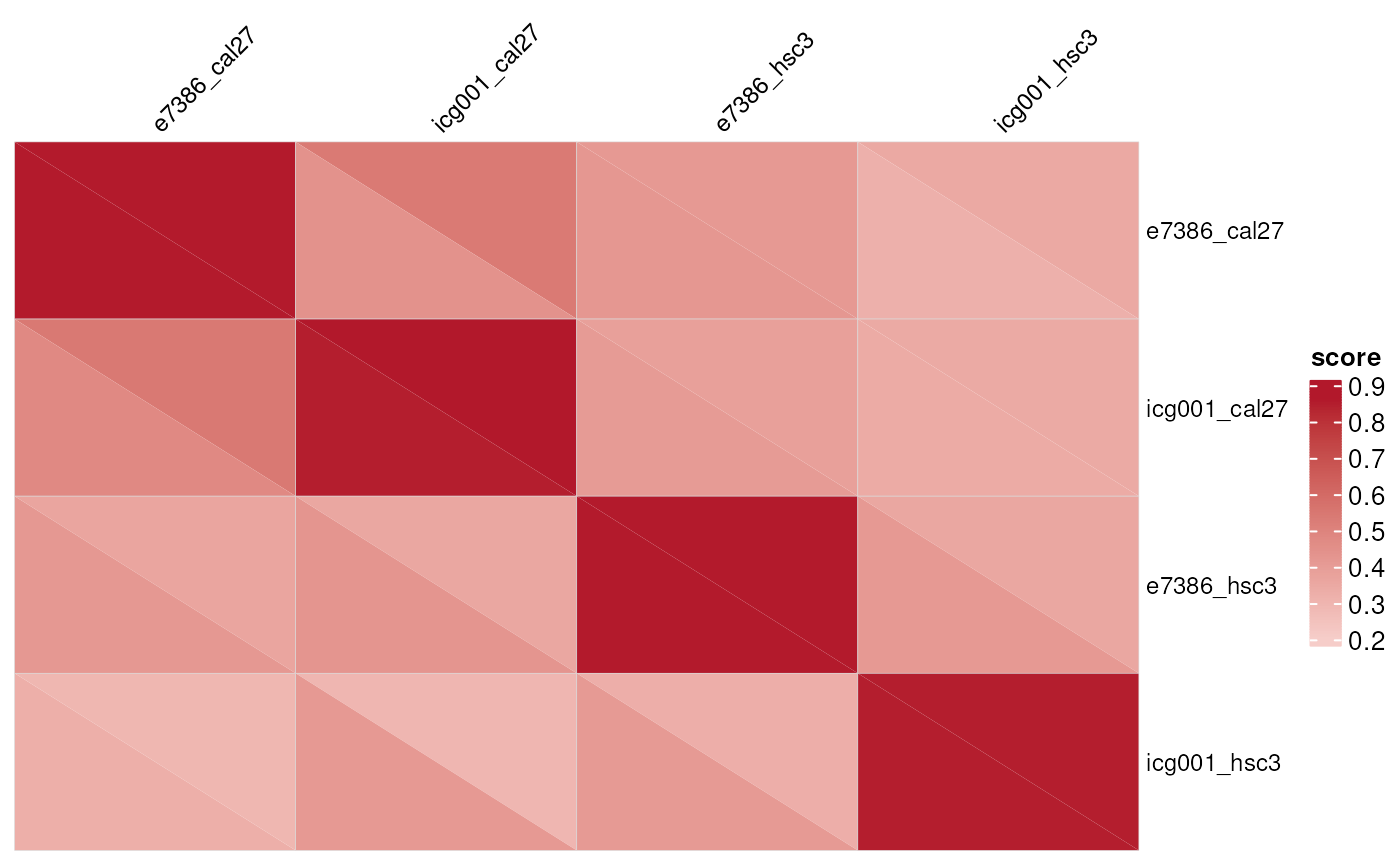
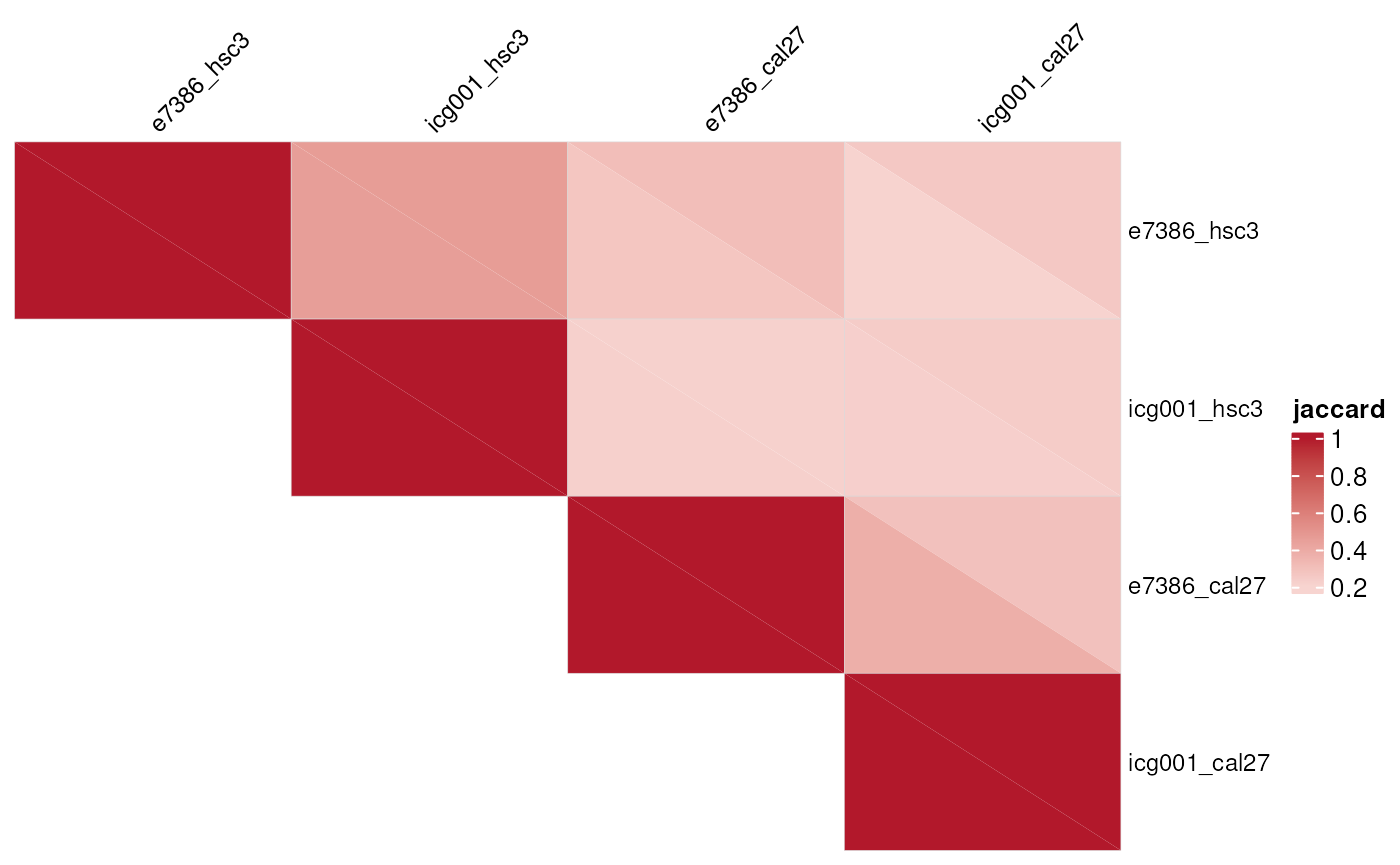
Deploying to gh-pages from @ montilab/OmicSignature@a5655fe8e4b9d870a0cdf44f5140b43c7aa1e4e0 🚀

diff --git a/articles/CompareSignatures.html b/articles/CompareSignatures.html
@@ -73,7 +73,7 @@
       <h1>Comparing OmicSignature Lists</h1>
             
       
-      <small class="dont-index">Source: <a href="https://github.com/montilab/OmicSignature/blob/main/vignettes/CompareSignatures.Rmd" class="external-link"><code>vignettes/CompareSignatures.Rmd</code></a></small>
+      <small class="dont-index">Source: <a href="https://github.com/montilab/OmicSignature/blob/docs/dropdown-height-and-counts-matrix/vignettes/CompareSignatures.Rmd" class="external-link"><code>vignettes/CompareSignatures.Rmd</code></a></small>
       <div class="d-none name"><code>CompareSignatures.Rmd</code></div>
     </div>
 
@@ -114,9 +114,11 @@ and the second factor level against the second factor level.</p>
 <span><span class="co">#&gt; e7386_cal27  "DMSO" "E7386" </span></span>
 <span><span class="co">#&gt; icg001_hsc3  "DMSO" "ICG001"</span></span>
 <span><span class="co">#&gt; icg001_cal27 "DMSO" "ICG001"</span></span>
+<span></span>
 <span><span class="co">## list the comparisons being performed</span></span>
 <span><span class="fu"><a href="https://rdrr.io/r/base/names.html" class="external-link">names</a></span><span class="op">(</span><span class="va">overlap_res</span><span class="op">$</span><span class="va">comparisons</span><span class="op">)</span></span>
 <span><span class="co">#&gt; [1] "level1_vs_level1" "level2_vs_level2"</span></span>
+<span></span>
 <span><span class="co">## show the comparison results for level 1 (jaccard and counts)</span></span>
 <span><span class="va">overlap_res</span><span class="op">$</span><span class="va">comparisons</span><span class="op">$</span><span class="va">level1_vs_level1</span><span class="op">$</span><span class="va">jaccard</span></span>
 <span><span class="co">#&gt;              e7386_hsc3 e7386_cal27 icg001_hsc3 icg001_cal27</span></span>
@@ -124,13 +126,14 @@ and the second factor level against the second factor level.</p>
 <span><span class="co">#&gt; e7386_cal27   0.3023088   1.0000000   0.2141944    0.2862150</span></span>
 <span><span class="co">#&gt; icg001_hsc3   0.4600457   0.2141944   1.0000000    0.2384770</span></span>
 <span><span class="co">#&gt; icg001_cal27  0.2535613   0.2862150   0.2384770    1.0000000</span></span>
+<span></span>
+<span><span class="co">## in the counts matrix, you can see the signature sizes in the diagonal</span></span>
 <span><span class="va">overlap_res</span><span class="op">$</span><span class="va">comparisons</span><span class="op">$</span><span class="va">level1_vs_level1</span><span class="op">$</span><span class="va">counts</span></span>
-<span><span class="co">#&gt;              e7386_hsc3 e7386_cal27 icg001_hsc3 icg001_cal27 size</span></span>
-<span><span class="co">#&gt; e7386_hsc3         1232         419         806          356 1232</span></span>
-<span><span class="co">#&gt; e7386_cal27         419         573         335          245  573</span></span>
-<span><span class="co">#&gt; icg001_hsc3         806         335        1326          357 1326</span></span>
-<span><span class="co">#&gt; icg001_cal27        356         245         357          528  528</span></span>
-<span><span class="co">#&gt; size               1232         573        1326          528   NA</span></span></code></pre></div>
+<span><span class="co">#&gt;              e7386_hsc3 e7386_cal27 icg001_hsc3 icg001_cal27</span></span>
+<span><span class="co">#&gt; e7386_hsc3         1232         419         806          356</span></span>
+<span><span class="co">#&gt; e7386_cal27         419         573         335          245</span></span>
+<span><span class="co">#&gt; icg001_hsc3         806         335        1326          357</span></span>
+<span><span class="co">#&gt; icg001_cal27        356         245         357          528</span></span></code></pre></div>
 <p>The overlap method returns three matrices for each compared factor
 level:</p>
 <ul>
@@ -141,14 +144,11 @@ sets.</li>
 <code>pvalue</code>: Fisher exact test p-values for overlap
 enrichment.</li>
 <li>
-<code>counts</code>: an integer matrix with an extra final
-<code>size</code> row and column beyond
-<code>jaccard</code>/<code>pvalue</code>’s dimensions. Entry
-<code>[i, j]</code> is the overlap size between signature <code>i</code>
-and signature <code>j</code>; the extra <code>size</code> column reports
-each row signature’s own retained feature-set size, the extra
-<code>size</code> row reports each column signature’s, and the corner
-entry is <code>NA</code>.</li>
+<code>counts</code>: an integer matrix with the same dimensions as
+<code>jaccard</code>/<code>pvalue</code>. Entry <code>[i, j]</code> is
+the overlap size between signature <code>i</code> and signature
+<code>j</code>; for self-comparisons, the diagonal is therefore each
+signature’s own retained feature-set size.</li>
 </ul>
 </div>
 <div class="section level2">
@@ -210,11 +210,14 @@ signatures need explicit matching.</p>
 <span>    signature_c <span class="op">=</span> <span class="fu"><a href="https://rdrr.io/r/base/c.html" class="external-link">c</a></span><span class="op">(</span><span class="st">"resistant"</span>, <span class="st">"sensitive"</span><span class="op">)</span></span>
 <span>  <span class="op">)</span></span>
 <span><span class="op">)</span></span>
+<span><span class="co">## level1 vs. level1</span></span>
 <span><span class="va">paired_res</span><span class="op">$</span><span class="va">comparisons</span><span class="op">$</span><span class="va">level1_vs_level1</span><span class="op">$</span><span class="va">jaccard</span></span>
 <span><span class="co">#&gt;             signature_a signature_b signature_c</span></span>
 <span><span class="co">#&gt; signature_a   1.0000000   0.6666667   0.3333333</span></span>
 <span><span class="co">#&gt; signature_b   0.6666667   1.0000000   0.3333333</span></span>
 <span><span class="co">#&gt; signature_c   0.3333333   0.3333333   1.0000000</span></span>
+<span></span>
+<span><span class="co">## level2 vs. level2</span></span>
 <span><span class="va">paired_res</span><span class="op">$</span><span class="va">comparisons</span><span class="op">$</span><span class="va">level2_vs_level2</span><span class="op">$</span><span class="va">jaccard</span></span>
 <span><span class="co">#&gt;             signature_a signature_b signature_c</span></span>
 <span><span class="co">#&gt; signature_a   1.0000000   0.6666667   0.3333333</span></span>
@@ -279,16 +282,19 @@ define the second level.</p>
 <span><span class="co">#&gt; signature_a         1.0         0.8       0.556</span></span>
 <span><span class="co">#&gt; signature_b         0.8         1.0       0.556</span></span>
 <span><span class="co">#&gt; signature_c         0.5         0.5       1.000</span></span>
+<span></span>
 <span><span class="fu"><a href="https://rdrr.io/r/base/Round.html" class="external-link">signif</a></span><span class="op">(</span><span class="va">toy_ks_score</span><span class="op">$</span><span class="va">comparisons</span><span class="op">$</span><span class="va">level1_vs_level1</span><span class="op">$</span><span class="va">pvalue</span>, <span class="fl">3</span><span class="op">)</span></span>
 <span><span class="co">#&gt;             signature_a signature_b signature_c</span></span>
 <span><span class="co">#&gt; signature_a    5.78e-14    2.83e-10    6.24e-04</span></span>
 <span><span class="co">#&gt; signature_b    2.83e-10    5.78e-14    6.24e-04</span></span>
 <span><span class="co">#&gt; signature_c    1.03e-03    3.44e-05    5.78e-14</span></span>
+<span></span>
 <span><span class="fu"><a href="https://rdrr.io/r/base/Round.html" class="external-link">round</a></span><span class="op">(</span><span class="va">toy_ks_score</span><span class="op">$</span><span class="va">comparisons</span><span class="op">$</span><span class="va">level2_vs_level2</span><span class="op">$</span><span class="va">score</span>, <span class="fl">3</span><span class="op">)</span></span>
 <span><span class="co">#&gt;             signature_a signature_b signature_c</span></span>
 <span><span class="co">#&gt; signature_a         1.0         0.8         0.5</span></span>
 <span><span class="co">#&gt; signature_b         0.8         1.0         0.5</span></span>
 <span><span class="co">#&gt; signature_c         0.5         0.5         1.0</span></span>
+<span></span>
 <span><span class="fu"><a href="https://rdrr.io/r/base/Round.html" class="external-link">signif</a></span><span class="op">(</span><span class="va">toy_ks_score</span><span class="op">$</span><span class="va">comparisons</span><span class="op">$</span><span class="va">level2_vs_level2</span><span class="op">$</span><span class="va">pvalue</span>, <span class="fl">3</span><span class="op">)</span></span>
 <span><span class="co">#&gt;             signature_a signature_b signature_c</span></span>
 <span><span class="co">#&gt; signature_a    5.78e-14    2.83e-10    6.27e-04</span></span>
@@ -325,9 +331,11 @@ function requires the optional <code>ComplexHeatmap</code> and
 <span>  column_names_rot <span class="op">=</span> <span class="fl">45</span></span>
 <span><span class="op">)</span></span></code></pre></div>
 <p><img src="CompareSignatures_files/figure-html/unnamed-chunk-8-1.png" class="r-plt" alt="" width="700"></p>
+<p>With <code>mode="combined"</code>, a single triangular matrix is
+shown, with each entry divided into two triangles displaying the level2
+(top-right) and level1 (bottom-left) similarity.</p>
 <div class="sourceCode" id="cb8"><pre class="downlit sourceCode r">
-<code class="sourceCode R"><span></span>
-<span><span class="fu"><a href="../reference/signature_similarity_heatmap.html">signature_similarity_heatmap</a></span><span class="op">(</span></span>
+<code class="sourceCode R"><span><span class="fu"><a href="../reference/signature_similarity_heatmap.html">signature_similarity_heatmap</a></span><span class="op">(</span></span>
 <span>  <span class="va">overlap_res</span>,</span>
 <span>  measure <span class="op">=</span> <span class="st">"jaccard"</span>,</span>
 <span>  mode <span class="op">=</span> <span class="st">"combined"</span>,</span>
@@ -336,7 +344,7 @@ function requires the optional <code>ComplexHeatmap</code> and
 <span>  row_names_gp <span class="op">=</span> <span class="fu">grid</span><span class="fu">::</span><span class="fu"><a href="https://rdrr.io/r/grid/gpar.html" class="external-link">gpar</a></span><span class="op">(</span>fontsize <span class="op">=</span> <span class="fl">9</span><span class="op">)</span>,</span>
 <span>  column_names_rot <span class="op">=</span> <span class="fl">45</span></span>
 <span><span class="op">)</span></span></code></pre></div>
-<p><img src="CompareSignatures_files/figure-html/unnamed-chunk-8-2.png" class="r-plt" alt="" width="700"></p>
+<p><img src="CompareSignatures_files/figure-html/unnamed-chunk-9-1.png" class="r-plt" alt="" width="700"></p>
 <p>For <code>measure = "pvalue"</code>, values are plotted as
 <code>-log10(pvalue)</code>. Larger values therefore indicate stronger
 overlap enrichment.</p>
@@ -359,7 +367,7 @@ draws those same two matrices as separate, full heatmaps instead.</p>
 <span>  row_names_gp <span class="op">=</span> <span class="fu">grid</span><span class="fu">::</span><span class="fu"><a href="https://rdrr.io/r/grid/gpar.html" class="external-link">gpar</a></span><span class="op">(</span>fontsize <span class="op">=</span> <span class="fl">9</span><span class="op">)</span>,</span>
 <span>  column_names_rot <span class="op">=</span> <span class="fl">45</span></span>
 <span><span class="op">)</span></span></code></pre></div>
-<p><img src="CompareSignatures_files/figure-html/unnamed-chunk-9-1.png" class="r-plt" alt="" width="700"></p>
+<p><img src="CompareSignatures_files/figure-html/unnamed-chunk-10-1.png" class="r-plt" alt="" width="700"></p>
 <div class="sourceCode" id="cb10"><pre class="downlit sourceCode r">
 <code class="sourceCode R"><span></span>
 <span><span class="fu"><a href="../reference/signature_similarity_heatmap.html">signature_similarity_heatmap</a></span><span class="op">(</span></span>
@@ -370,7 +378,7 @@ draws those same two matrices as separate, full heatmaps instead.</p>
 <span>  row_names_gp <span class="op">=</span> <span class="fu">grid</span><span class="fu">::</span><span class="fu"><a href="https://rdrr.io/r/grid/gpar.html" class="external-link">gpar</a></span><span class="op">(</span>fontsize <span class="op">=</span> <span class="fl">9</span><span class="op">)</span>,</span>
 <span>  column_names_rot <span class="op">=</span> <span class="fl">45</span></span>
 <span><span class="op">)</span></span></code></pre></div>
-<p><img src="CompareSignatures_files/figure-html/unnamed-chunk-9-2.png" class="r-plt" alt="" width="700"></p>
+<p><img src="CompareSignatures_files/figure-html/unnamed-chunk-10-2.png" class="r-plt" alt="" width="700"></p>
 </div>
   </main><aside class="col-md-3"><nav id="toc" aria-label="Table of contents"><h2>On this page</h2>
     </nav></aside>

diff --git a/reference/compare_omic_signatures.html b/reference/compare_omic_signatures.html
@@ -49,7 +49,7 @@ rank-position KS, score-distribution KS, or fgsea."></head><body>
   <main id="main" class="col-md-9"><div class="page-header">
 
       <h1>Compare OmicSignature objects</h1>
-      <small class="dont-index">Source: <a href="https://github.com/montilab/OmicSignature/blob/main/R/compare_omic_signatures.R" class="external-link"><code>R/compare_omic_signatures.R</code></a></small>
+      <small class="dont-index">Source: <a href="https://github.com/montilab/OmicSignature/blob/docs/dropdown-height-and-counts-matrix/R/compare_omic_signatures.R" class="external-link"><code>R/compare_omic_signatures.R</code></a></small>
       <div class="d-none name"><code>compare_omic_signatures.Rd</code></div>
     </div>
 
@@ -253,12 +253,10 @@ signature in both `sig_list1` and `sig_list2` is uni-directional and
 `jaccard`, `pvalue`, and `counts` (no `level1_vs_level1` nesting, and
 `label_order` is `NULL`). Otherwise, for `method = "overlap"` each
 element contains `jaccard`, `pvalue`, and `counts` matrices. `counts` is
-an integer matrix with one extra final `"size"` row and column beyond
-`jaccard`/`pvalue`'s dimensions: entry `[i, j]` is the overlap size
-between signature `i` and signature `j`, the extra `"size"` column
-reports each row signature's own retained feature-set size, the extra
-`"size"` row reports each column signature's, and the corner entry is
-`NA`. For `method = "ks_rank"`,
+an integer matrix with the same dimensions as `jaccard`/`pvalue`: entry
+`[i, j]` is the overlap size between signature `i` and signature `j`.
+For self-comparisons, the diagonal is therefore each signature's own
+retained feature-set size. For `method = "ks_rank"`,
 `method = "ks_score"`, `method = "ks"`, and
 `method = "gsea"` each element contains `score` and `pvalue` matrices;
 columns for `sig_list2` signatures without a difexp table, or that are

diff --git a/articles/CompareUnidirectional.html b/articles/CompareUnidirectional.html
@@ -73,7 +73,7 @@
       <h1>Comparing Uni-directional Signatures</h1>
             
       
-      <small class="dont-index">Source: <a href="https://github.com/montilab/OmicSignature/blob/main/vignettes/CompareUnidirectional.Rmd" class="external-link"><code>vignettes/CompareUnidirectional.Rmd</code></a></small>
+      <small class="dont-index">Source: <a href="https://github.com/montilab/OmicSignature/blob/docs/dropdown-height-and-counts-matrix/vignettes/CompareUnidirectional.Rmd" class="external-link"><code>vignettes/CompareUnidirectional.Rmd</code></a></small>
       <div class="d-none name"><code>CompareUnidirectional.Rmd</code></div>
     </div>
 
@@ -134,11 +134,10 @@ instead: <code>comparisons</code> directly holds <code>jaccard</code>,
 <span><span class="co">#&gt; uni_y 0.3333333 1.0000000     0</span></span>
 <span><span class="co">#&gt; uni_z 0.0000000 0.0000000     1</span></span>
 <span><span class="va">uni_res</span><span class="op">$</span><span class="va">comparisons</span><span class="op">$</span><span class="va">counts</span></span>
-<span><span class="co">#&gt;       uni_x uni_y uni_z size</span></span>
-<span><span class="co">#&gt; uni_x    10     5     0   10</span></span>
-<span><span class="co">#&gt; uni_y     5    10     0   10</span></span>
-<span><span class="co">#&gt; uni_z     0     0    10   10</span></span>
-<span><span class="co">#&gt; size     10    10    10   NA</span></span></code></pre></div>
+<span><span class="co">#&gt;       uni_x uni_y uni_z</span></span>
+<span><span class="co">#&gt; uni_x    10     5     0</span></span>
+<span><span class="co">#&gt; uni_y     5    10     0</span></span>
+<span><span class="co">#&gt; uni_z     0     0    10</span></span></code></pre></div>
 </div>
 <div class="section level2">
 <h2 id="ks-and-gsea-are-not-possible-without-a-ranking">KS and GSEA are not possible without a ranking<a class="anchor" aria-label="anchor" href="#ks-and-gsea-are-not-possible-without-a-ranking"></a>

diff --git a/articles/CreateOmS.html b/articles/CreateOmS.html
@@ -74,9 +74,9 @@
                         <h4 data-toc-skip class="author">Vanessa Mengze
 Li</h4>
             
-            <h4 data-toc-skip class="date">2026-07-17</h4>
+            <h4 data-toc-skip class="date">2026-07-20</h4>
       
-      <small class="dont-index">Source: <a href="https://github.com/montilab/OmicSignature/blob/main/vignettes/CreateOmS.Rmd" class="external-link"><code>vignettes/CreateOmS.Rmd</code></a></small>
+      <small class="dont-index">Source: <a href="https://github.com/montilab/OmicSignature/blob/docs/dropdown-height-and-counts-matrix/vignettes/CreateOmS.Rmd" class="external-link"><code>vignettes/CreateOmS.Rmd</code></a></small>
       <div class="d-none name"><code>CreateOmS.Rmd</code></div>
     </div>
 

diff --git a/articles/CreateOmSC.html b/articles/CreateOmSC.html
@@ -74,9 +74,9 @@
                         <h4 data-toc-skip class="author">Vanessa Mengze
 Li</h4>
             
-            <h4 data-toc-skip class="date">2026-07-17</h4>
+            <h4 data-toc-skip class="date">2026-07-20</h4>
       
-      <small class="dont-index">Source: <a href="https://github.com/montilab/OmicSignature/blob/main/vignettes/CreateOmSC.Rmd" class="external-link"><code>vignettes/CreateOmSC.Rmd</code></a></small>
+      <small class="dont-index">Source: <a href="https://github.com/montilab/OmicSignature/blob/docs/dropdown-height-and-counts-matrix/vignettes/CreateOmSC.Rmd" class="external-link"><code>vignettes/CreateOmSC.Rmd</code></a></small>
       <div class="d-none name"><code>CreateOmSC.Rmd</code></div>
     </div>
 

diff --git a/articles/FunOmS.html b/articles/FunOmS.html
@@ -74,9 +74,9 @@
                         <h4 data-toc-skip class="author">Vanessa Mengze
 Li</h4>
             
-            <h4 data-toc-skip class="date">2026-07-17</h4>
+            <h4 data-toc-skip class="date">2026-07-20</h4>
       
-      <small class="dont-index">Source: <a href="https://github.com/montilab/OmicSignature/blob/main/vignettes/FunOmS.Rmd" class="external-link"><code>vignettes/FunOmS.Rmd</code></a></small>
+      <small class="dont-index">Source: <a href="https://github.com/montilab/OmicSignature/blob/docs/dropdown-height-and-counts-matrix/vignettes/FunOmS.Rmd" class="external-link"><code>vignettes/FunOmS.Rmd</code></a></small>
       <div class="d-none name"><code>FunOmS.Rmd</code></div>
     </div>
 

diff --git a/articles/FunOmSC.html b/articles/FunOmSC.html
@@ -74,9 +74,9 @@
                         <h4 data-toc-skip class="author">Vanessa Mengze
 Li</h4>
             
-            <h4 data-toc-skip class="date">2026-07-17</h4>
+            <h4 data-toc-skip class="date">2026-07-20</h4>
       
-      <small class="dont-index">Source: <a href="https://github.com/montilab/OmicSignature/blob/main/vignettes/FunOmSC.Rmd" class="external-link"><code>vignettes/FunOmSC.Rmd</code></a></small>
+      <small class="dont-index">Source: <a href="https://github.com/montilab/OmicSignature/blob/docs/dropdown-height-and-counts-matrix/vignettes/FunOmSC.Rmd" class="external-link"><code>vignettes/FunOmSC.Rmd</code></a></small>
       <div class="d-none name"><code>FunOmSC.Rmd</code></div>
     </div>
 

diff --git a/articles/ObjectStructure.html b/articles/ObjectStructure.html
@@ -74,9 +74,9 @@
                         <h4 data-toc-skip class="author">Vanessa Mengze
 Li</h4>
             
-            <h4 data-toc-skip class="date">2026-07-17</h4>
+            <h4 data-toc-skip class="date">2026-07-20</h4>
       
-      <small class="dont-index">Source: <a href="https://github.com/montilab/OmicSignature/blob/main/vignettes/ObjectStructure.Rmd" class="external-link"><code>vignettes/ObjectStructure.Rmd</code></a></small>
+      <small class="dont-index">Source: <a href="https://github.com/montilab/OmicSignature/blob/docs/dropdown-height-and-counts-matrix/vignettes/ObjectStructure.Rmd" class="external-link"><code>vignettes/ObjectStructure.Rmd</code></a></small>
       <div class="d-none name"><code>ObjectStructure.Rmd</code></div>
     </div>
 

diff --git a/articles/SampleType.html b/articles/SampleType.html
@@ -74,9 +74,9 @@
                         <h4 data-toc-skip class="author">Vanessa Mengze
 Li</h4>
             
-            <h4 data-toc-skip class="date">2026-07-17</h4>
+            <h4 data-toc-skip class="date">2026-07-20</h4>
       
-      <small class="dont-index">Source: <a href="https://github.com/montilab/OmicSignature/blob/main/vignettes/SampleType.Rmd" class="external-link"><code>vignettes/SampleType.Rmd</code></a></small>
+      <small class="dont-index">Source: <a href="https://github.com/montilab/OmicSignature/blob/docs/dropdown-height-and-counts-matrix/vignettes/SampleType.Rmd" class="external-link"><code>vignettes/SampleType.Rmd</code></a></small>
       <div class="d-none name"><code>SampleType.Rmd</code></div>
     </div>
 

diff --git a/articles/CompareMixedDirection.html b/articles/CompareMixedDirection.html
@@ -73,7 +73,7 @@
       <h1>Comparing Mixed Uni- and Bi-directional Signatures</h1>
             
       
-      <small class="dont-index">Source: <a href="https://github.com/montilab/OmicSignature/blob/main/vignettes/CompareMixedDirection.Rmd" class="external-link"><code>vignettes/CompareMixedDirection.Rmd</code></a></small>
+      <small class="dont-index">Source: <a href="https://github.com/montilab/OmicSignature/blob/docs/dropdown-height-and-counts-matrix/vignettes/CompareMixedDirection.Rmd" class="external-link"><code>vignettes/CompareMixedDirection.Rmd</code></a></small>
       <div class="d-none name"><code>CompareMixedDirection.Rmd</code></div>
     </div>
 

diff --git a/authors.html b/authors.html
@@ -64,7 +64,7 @@
 
     <div class="section level2">
       <h2 id="citation">Citation</h2>
-      <p><small class="dont-index">Source: <a href="https://github.com/montilab/OmicSignature/blob/main/DESCRIPTION" class="external-link"><code>DESCRIPTION</code></a></small></p>
+      <p><small class="dont-index">Source: <a href="https://github.com/montilab/OmicSignature/blob/docs/dropdown-height-and-counts-matrix/DESCRIPTION" class="external-link"><code>DESCRIPTION</code></a></small></p>
 
       <p>Li V, Monti S (2026).
 <em>OmicSignature: An R package to store omics signatures as an R6 object</em>.

diff --git a/reference/BRENDA.html b/reference/BRENDA.html
@@ -47,7 +47,7 @@
   <main id="main" class="col-md-9"><div class="page-header">
 
       <h1>BRENDA tissue ontology obo file. using version 2021/10</h1>
-      <small class="dont-index">Source: <a href="https://github.com/montilab/OmicSignature/blob/main/R/data.R" class="external-link"><code>R/data.R</code></a></small>
+      <small class="dont-index">Source: <a href="https://github.com/montilab/OmicSignature/blob/docs/dropdown-height-and-counts-matrix/R/data.R" class="external-link"><code>R/data.R</code></a></small>
       <div class="d-none name"><code>BRENDA.Rd</code></div>
     </div>
 